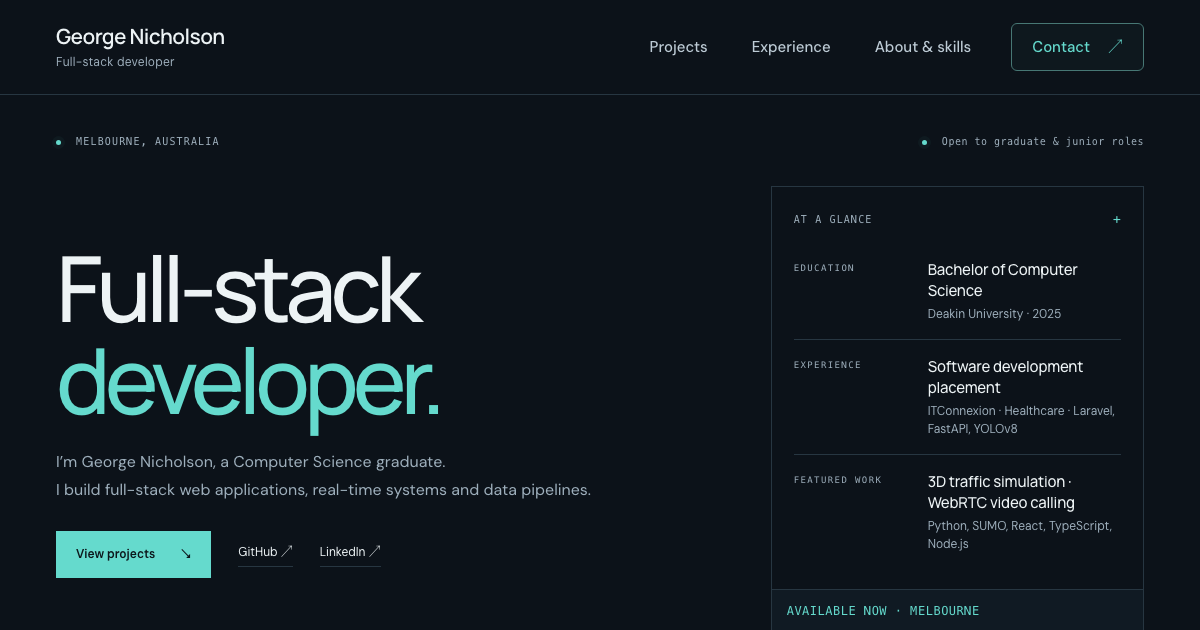
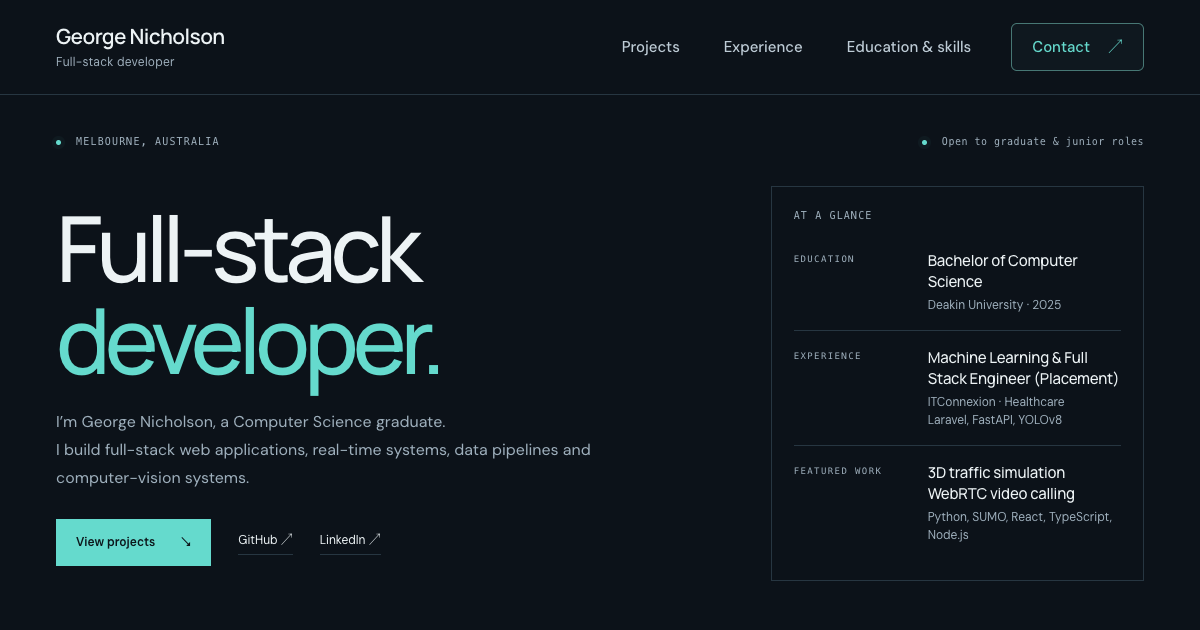
Align placement with LinkedIn and tighten the page
Use the Machine Learning & Full Stack Engineer (Placement) title and
describe the real-time detection, scale calibration and API work.
Add PyTorch and scikit-learn, High Distinctions and the embedded systems
coursework link; update link descriptions; remove repeated labels and
lines; refresh the link preview image.

diff --git a/index.html b/index.html
@@ -1,14 +1,14 @@
 <!doctype html>
-<html lang="en"><head><meta charset="utf-8"><meta name="viewport" content="width=device-width,initial-scale=1"><meta name="color-scheme" content="dark light"><meta name="theme-color" content="#0c1219"><meta name="description" content="George Nicholson — Melbourne-based Computer Science graduate. Real-time web applications, geospatial simulation and healthcare software."><title>George Nicholson — Full-stack Developer</title><link rel="icon" href="assets/favicon.svg" type="image/svg+xml"><meta property="og:type" content="website"><meta property="og:url" content="https://georgenich.github.io/"><meta property="og:title" content="George Nicholson — Full-stack Developer"><meta property="og:description" content="Melbourne-based Computer Science graduate building full-stack web applications, real-time systems and data pipelines."><meta property="og:image" content="https://georgenich.github.io/assets/og-image.png"><meta property="og:image:width" content="1200"><meta property="og:image:height" content="630"><meta property="og:image:alt" content="George Nicholson, full-stack developer portfolio"><meta name="twitter:card" content="summary_large_image"><link rel="stylesheet" href="style.css"></head>
+<html lang="en"><head><meta charset="utf-8"><meta name="viewport" content="width=device-width,initial-scale=1"><meta name="color-scheme" content="dark light"><meta name="theme-color" content="#0c1219"><meta name="description" content="George Nicholson — Melbourne-based full-stack developer and Computer Science graduate building web applications, real-time systems, data pipelines and computer-vision systems."><title>George Nicholson — Full-stack Developer</title><link rel="icon" href="assets/favicon.svg" type="image/svg+xml"><meta property="og:type" content="website"><meta property="og:url" content="https://georgenich.github.io/"><meta property="og:title" content="George Nicholson — Full-stack Developer"><meta property="og:description" content="Melbourne-based full-stack developer and Computer Science graduate building web applications, real-time systems, data pipelines and computer-vision systems."><meta property="og:image" content="https://georgenich.github.io/assets/og-image.png"><meta property="og:image:width" content="1200"><meta property="og:image:height" content="630"><meta property="og:image:alt" content="George Nicholson, full-stack developer portfolio"><meta name="twitter:card" content="summary_large_image"><link rel="stylesheet" href="style.css"></head>
 <body><a href="#main" class="skip">Skip to content</a>
 <header><div class="nav shell"><a href="#" class="wordmark" aria-label="George Nicholson home"><span class="nav-name">George Nicholson</span><span class="nav-role">Full-stack developer</span></a><button class="menu-toggle" aria-expanded="false" aria-controls="main-nav" hidden>Menu <span aria-hidden="true">+</span></button><nav id="main-nav" aria-label="Main navigation"><a href="#work">Projects</a><a href="#experience">Experience</a><a href="#background">Education & skills</a><a href="#contact" class="nav-contact">Contact <span aria-hidden="true">↗</span></a></nav></div><div class="scroll-progress" aria-hidden="true"></div></header>
 <main id="main">
-<section class="intro shell"><div class="intro-top"><p class="label"><span class="signal"></span> MELBOURNE, AUSTRALIA</p><a class="available" href="#contact"><span class="signal"></span> Open to graduate & junior roles</a></div><div class="intro-grid"><div><h1>Full-stack<br><span>developer.</span></h1><p class="intro-description">I’m George Nicholson, a Computer Science graduate.<br class="desktop-break"> I build full-stack web applications, real-time systems and data pipelines.</p><div class="intro-links"><a class="primary" href="#work">View projects <span>↘</span></a><a href="https://github.com/GeorgeNich" target="_blank" rel="noreferrer" class="quiet-link">GitHub ↗</a><a href="https://www.linkedin.com/in/georgenicholson1998/" target="_blank" rel="noreferrer" class="quiet-link">LinkedIn ↗</a></div></div><div class="systems"><div class="system-top"><span class="label">AT A GLANCE</span><span class="cross" aria-hidden="true">+</span></div><dl class="fact-list"><div><dt>EDUCATION</dt><dd>Bachelor of Computer Science<small>Deakin University · 2025</small></dd></div><div><dt>EXPERIENCE</dt><dd>Software development placement<small>ITConnexion · Healthcare<br>Laravel, FastAPI, YOLOv8</small></dd></div><div><dt>FEATURED WORK</dt><dd>3D traffic simulation<br>WebRTC video calling<small>Python, SUMO, React, TypeScript, Node.js</small></dd></div></dl><div class="system-bottom"><span>AVAILABLE NOW · MELBOURNE</span></div></div></div></section>
-<section class="selected shell" id="work"><div class="section-bar"><span class="label">01 / PROJECTS</span><span class="label faint">INDEPENDENT SOFTWARE PROJECTS</span></div>
-<article class="melbourne project" id="melbourne" aria-labelledby="melbourne-title"><h2 id="melbourne-title" class="sr-only">Melbourne Traffic Simulator</h2><div class="project-visual"><div class="visual-panel" id="melbourne-preview" role="tabpanel" aria-labelledby="melbourne-tab-preview"><video id="traffic-replay" controls muted loop playsinline preload="none" poster="assets/melbourne-poster.jpg" aria-label="Animated preview of simulated Melbourne traffic"><source src="assets/melbourne.mp4" type="video/mp4">Your browser does not support video. The poster shows the Melbourne traffic simulation.</video><div class="image-shade"></div><div class="image-title"><div class="image-heading" aria-hidden="true">Melbourne<br>Traffic Simulator<span>.</span></div></div><div class="image-note label"><span class="signal"></span> SIMULATED TRAFFIC REPLAY</div></div><div class="visual-panel architecture-panel" id="melbourne-architecture" role="tabpanel" aria-labelledby="melbourne-tab-architecture" hidden><div class="label">FROM CITY DATA TO BROWSER REPLAY</div><ol class="pipeline"><li><span>SOURCE</span><strong>Open geography</strong><p>Roads, buildings and elevation.</p></li><li><span>PROCESS</span><strong>Python pipeline</strong><p>Prepare roads and buildings, record their sources and check the results.</p></li><li><span>SIMULATE</span><strong>SUMO</strong><p>Simulate traffic and save vehicle paths and road speeds.</p></li><li><span>EXPLORE</span><strong>Browser replay</strong><p>React, TypeScript, deck.gl and MapLibre.</p></li></ol><p>The browser replays precomputed simulation output.</p></div><div class="visual-toolbar"><div class="tabs" role="tablist" aria-label="Melbourne project views"><button id="melbourne-tab-preview" role="tab" aria-selected="true" aria-controls="melbourne-preview" data-panel="melbourne-preview">Replay</button><button id="melbourne-tab-architecture" role="tab" aria-selected="false" aria-controls="melbourne-architecture" tabindex="-1" data-panel="melbourne-architecture">Architecture</button></div><button class="replay-control" id="replay-control" aria-controls="traffic-replay" hidden>Play replay <span aria-hidden="true">▷</span></button><a href="https://github.com/GeorgeNich/Melbourne-traffic-simulator" target="_blank" rel="noreferrer">Explore repository <span>↗</span></a></div></div><div class="project-description"><div><span class="label teal">CITY DATA & TRAFFIC SIMULATION</span><h3>3D traffic simulation<br>of central Melbourne.</h3><div class="tags"><span>Python</span><span>SUMO</span><span>React</span><span>TypeScript</span><span>deck.gl</span><span>MapLibre</span></div></div><div><p>I built the full pipeline: Python processing of OpenStreetMap and City of Melbourne data, a SUMO traffic simulation, and a WebGL viewer in React, TypeScript, deck.gl and MapLibre.</p><p>The simulation was also calibrated against real morning-peak traffic counts from 45 signalised intersections.</p><p class="muted">3D bridges and tunnels, vehicle following, a seekable timeline and road-speed overlays.</p></div></div><div class="demo-summary"><div><span class="label">EXPLORE</span><strong>Central Melbourne</strong><p>CBD, Southbank and Docklands.</p></div><div><span class="label">REPLAY</span><strong>15 minutes of traffic</strong><p>Seekable, with 1–30× playback.</p></div><div><span class="label">RUN LOCALLY</span><strong>Prepared data included</strong><p>Runs in the browser; no Python or SUMO required.</p></div></div><div class="engineering"><div><h4>Data provenance</h4><p>Every road and building height is tagged as measured, sourced or estimated.</p></div><div><h4>Rendering</h4><p>MapLibre and deck.gl share one WebGL context and depth buffer, so buildings correctly occlude traffic. Playback updates vehicle layers without re-rendering React each frame.</p></div><div><h4>Verification</h4><p>Contract tests keep data consistent across the pipeline, simulation and viewer; geometry diagnostics and Playwright tests cover vehicle paths and playback. 99.7% of recorded vehicle positions fall within the carriageway.</p></div></div></article>
-<article class="clearlink project" id="clearlink"><div class="clearlink-heading"><div><span class="label teal">BROWSER VIDEO CALLING</span><h2>Clearlink<span>.</span></h2><p>Account-free video calls that start with a link.</p></div></div><div class="clearlink-grid"><div class="clearlink-media"><div class="visual-panel call-panel" id="clearlink-preview" role="tabpanel" aria-labelledby="clearlink-tab-preview"><img src="assets/clearlink.png" alt="A three-person Clearlink video call with the chat panel open" loading="lazy" width="1600" height="1000"></div><div class="visual-panel architecture-panel" id="clearlink-architecture" role="tabpanel" aria-labelledby="clearlink-tab-architecture" hidden><div class="label">HOW THE CALL CONNECTS</div><div class="peer-map"><div class="peer-pair"><span>Browser A</span><div><strong>⇄</strong><small>DIRECT WEBRTC MEDIA</small></div><span>Browser B</span></div><div class="signalling-path" aria-hidden="true">↓ <span>CONNECTION SETUP</span> ↓</div><div class="signalling-node"><strong>Node.js signalling</strong><span>Who is in the room · connection setup · chat</span></div></div><p>Each participant sends audio and video directly to the others. The server manages the room and passes connection details and chat messages.</p></div><div class="visual-toolbar"><div class="tabs" role="tablist" aria-label="Clearlink project views"><button role="tab" id="clearlink-tab-preview" aria-selected="true" aria-controls="clearlink-preview" data-panel="clearlink-preview">Application</button><button role="tab" id="clearlink-tab-architecture" aria-selected="false" aria-controls="clearlink-architecture" data-panel="clearlink-architecture" tabindex="-1">Architecture</button></div><a href="https://github.com/GeorgeNich/clearlink" target="_blank" rel="noreferrer">Explore repository <span>↗</span></a></div></div><div class="clearlink-copy"><h3>Peer-to-peer group calls<br>without a calling SDK.</h3><p>I built the React/TypeScript client and a zero-dependency Node.js signalling server. Calls support up to five people, screen sharing and chat, with audio and video sent directly between browsers over WebRTC.</p><ul class="feature-list"><li><div><h4>Collision-free negotiation</h4><p>Deterministic offer ownership and per-peer queues avoid conflicting offers when people join at once.</p></div></li><li><div><h4>Device lifecycle</h4><p>Generation tokens stop streams returned by outdated camera and microphone requests, so capture doesn’t outlive the screen that requested it.</p></div></li><li><div><h4>Connection recovery</h4><p>Failed connections can be retried with an ICE restart, keeping room membership and device settings.</p></div></li></ul><div class="tags"><span>TypeScript</span><span>React</span><span>WebRTC</span><span>Node.js</span><span>Playwright</span></div><p class="scope">Covered by Node tests and a five-person Playwright call test; also tested across networks, including mobile data.</p></div></div></article>
+<section class="intro shell"><div class="intro-top"><p class="label"><span class="signal"></span> MELBOURNE, AUSTRALIA</p><a class="available" href="#contact"><span class="signal"></span> Open to graduate & junior roles</a></div><div class="intro-grid"><div><h1>Full-stack<br><span>developer.</span></h1><p class="intro-description">I’m George Nicholson, a Computer Science graduate.<br class="desktop-break"> I build full-stack web applications, real-time systems, data pipelines and computer-vision systems.</p><div class="intro-links"><a class="primary" href="#work">View projects <span>↘</span></a><a href="https://github.com/GeorgeNich" target="_blank" rel="noreferrer" class="quiet-link">GitHub ↗</a><a href="https://www.linkedin.com/in/georgenicholson1998/" target="_blank" rel="noreferrer" class="quiet-link">LinkedIn ↗</a></div></div><div class="systems"><div class="system-top"><span class="label">AT A GLANCE</span></div><dl class="fact-list"><div><dt>EDUCATION</dt><dd>Bachelor of Computer Science<small>Deakin University · 2025</small></dd></div><div><dt>EXPERIENCE</dt><dd>Machine Learning &amp; Full Stack Engineer (Placement)<small>ITConnexion · Healthcare<br>Laravel, FastAPI, YOLOv8</small></dd></div><div><dt>FEATURED WORK</dt><dd>3D traffic simulation<br>WebRTC video calling<small>Python, SUMO, React, TypeScript, Node.js</small></dd></div></dl></div></div></section>
+<section class="selected shell" id="work"><div class="section-bar"><span class="label">01 / PROJECTS</span></div>
+<article class="melbourne project" id="melbourne" aria-labelledby="melbourne-title"><h2 id="melbourne-title" class="sr-only">Melbourne Traffic Simulator</h2><div class="project-visual"><div class="visual-panel" id="melbourne-preview" role="tabpanel" aria-labelledby="melbourne-tab-preview"><video id="traffic-replay" controls muted loop playsinline preload="none" poster="assets/melbourne-poster.jpg" aria-label="Animated preview of simulated Melbourne traffic"><source src="assets/melbourne.mp4" type="video/mp4">Your browser does not support video. The poster shows the Melbourne traffic simulation.</video><div class="image-shade"></div><div class="image-title"><div class="image-heading" aria-hidden="true">Melbourne<br>Traffic Simulator<span>.</span></div></div><div class="image-note label"><span class="signal"></span> SIMULATED TRAFFIC REPLAY</div></div><div class="visual-panel architecture-panel" id="melbourne-architecture" role="tabpanel" aria-labelledby="melbourne-tab-architecture" hidden><div class="label">FROM CITY DATA TO BROWSER REPLAY</div><ol class="pipeline"><li><span>SOURCE</span><strong>Open geography</strong><p>Roads, buildings and elevation.</p></li><li><span>PROCESS</span><strong>Python pipeline</strong><p>Prepare roads and buildings, record their sources and check the results.</p></li><li><span>SIMULATE</span><strong>SUMO</strong><p>Simulate traffic and save vehicle paths and road speeds.</p></li><li><span>EXPLORE</span><strong>Browser replay</strong><p>React, TypeScript, deck.gl and MapLibre.</p></li></ol><p>The browser replays precomputed simulation output.</p></div><div class="visual-toolbar"><div class="tabs" role="tablist" aria-label="Melbourne project views"><button id="melbourne-tab-preview" role="tab" aria-selected="true" aria-controls="melbourne-preview" data-panel="melbourne-preview">Replay</button><button id="melbourne-tab-architecture" role="tab" aria-selected="false" aria-controls="melbourne-architecture" tabindex="-1" data-panel="melbourne-architecture">Architecture</button></div><button class="replay-control" id="replay-control" aria-controls="traffic-replay" hidden>Play replay <span aria-hidden="true">▷</span></button><a href="https://github.com/GeorgeNich/Melbourne-traffic-simulator" target="_blank" rel="noreferrer">Explore repository <span>↗</span></a></div></div><div class="project-description"><div><span class="label teal">CITY DATA & SIMULATION</span><h3>3D traffic simulation<br>of central Melbourne.</h3><div class="tags"><span>Python</span><span>SUMO</span><span>React</span><span>TypeScript</span><span>deck.gl</span><span>MapLibre</span></div></div><div><p>I built the full pipeline, from processing OpenStreetMap and City of Melbourne data to running the traffic simulation and replaying it in the browser.</p><p>The simulation was also calibrated against real morning-peak traffic counts from 45 signalised intersections.</p><p class="muted">3D bridges and tunnels, vehicle following, a seekable timeline and road-speed overlays.</p></div></div><div class="demo-summary"><div><span class="label">EXPLORE</span><strong>CBD, Southbank &amp; Docklands</strong><p>Real city geometry and road network.</p></div><div><span class="label">REPLAY</span><strong>15 minutes of traffic</strong><p>Seekable, with 1–30× playback.</p></div><div><span class="label">RUN LOCALLY</span><strong>Prepared data included</strong><p>Runs in the browser; no Python or SUMO required.</p></div></div><div class="engineering"><div><h4>Data provenance</h4><p>Every road and building height is tagged as measured, sourced or estimated.</p></div><div><h4>Rendering</h4><p>MapLibre and deck.gl share one WebGL context and depth buffer, so buildings correctly occlude traffic. Playback updates vehicle layers without re-rendering React each frame.</p></div><div><h4>Verification</h4><p>Contract tests keep data consistent across the pipeline, simulation and viewer; geometry diagnostics and Playwright tests cover vehicle paths and playback. 99.7% of recorded vehicle positions fall within the carriageway.</p></div></div></article>
+<article class="clearlink project" id="clearlink"><div class="clearlink-heading"><div><span class="label teal">BROWSER VIDEO CALLING</span><h2>Clearlink<span>.</span></h2><p>Account-free video calls that start with a link.</p></div></div><div class="clearlink-grid"><div class="clearlink-media"><div class="visual-panel call-panel" id="clearlink-preview" role="tabpanel" aria-labelledby="clearlink-tab-preview"><img src="assets/clearlink.png" alt="A three-person Clearlink video call with the chat panel open" loading="lazy" width="1600" height="1000"></div><div class="visual-panel architecture-panel" id="clearlink-architecture" role="tabpanel" aria-labelledby="clearlink-tab-architecture" hidden><div class="label">HOW THE CALL CONNECTS</div><div class="peer-map"><div class="peer-pair"><span>Browser A</span><div><strong>⇄</strong><small>DIRECT WEBRTC MEDIA</small></div><span>Browser B</span></div><div class="signalling-path" aria-hidden="true">↓ <span>CONNECTION SETUP</span> ↓</div><div class="signalling-node"><strong>Node.js signalling</strong><span>Who is in the room · connection setup · chat</span></div></div><p>Each participant sends audio and video directly to the others. The server manages the room and passes connection details and chat messages.</p></div><div class="visual-toolbar"><div class="tabs" role="tablist" aria-label="Clearlink project views"><button role="tab" id="clearlink-tab-preview" aria-selected="true" aria-controls="clearlink-preview" data-panel="clearlink-preview">Application</button><button role="tab" id="clearlink-tab-architecture" aria-selected="false" aria-controls="clearlink-architecture" data-panel="clearlink-architecture" tabindex="-1">Architecture</button></div><a href="https://github.com/GeorgeNich/clearlink" target="_blank" rel="noreferrer">Explore repository <span>↗</span></a></div></div><div class="clearlink-copy"><h3>Peer-to-peer group calls<br>without a calling SDK.</h3><p>I built the React/TypeScript client and a zero-dependency Node.js signalling server. Calls support up to five people, screen sharing and chat over WebRTC.</p><ul class="feature-list"><li><div><h4>Collision-free negotiation</h4><p>Deterministic offer ownership and per-peer queues avoid conflicting offers when people join at once.</p></div></li><li><div><h4>Device lifecycle</h4><p>Generation tokens stop streams returned by outdated camera and microphone requests, so capture doesn’t outlive the screen that requested it.</p></div></li><li><div><h4>Connection recovery</h4><p>Failed connections can be retried with an ICE restart, keeping room membership and device settings.</p></div></li></ul><div class="tags"><span>TypeScript</span><span>React</span><span>WebRTC</span><span>Node.js</span><span>Playwright</span></div><p class="scope">Covered by Node tests and a five-person Playwright call test; also tested across networks, including mobile data.</p></div></div></article>
 </section>
-<section class="experience" id="experience"><div class="shell"><div class="section-bar"><span class="label">02 / EXPERIENCE</span><span class="label">PLACEMENT & INDEPENDENT DEVELOPMENT</span></div><div class="experience-grid"><div><span class="label">HEALTHCARE SOFTWARE</span><h2>ITConnexion<span>.</span></h2><p class="placement-role">Software development placement</p><p class="placement-date">October 2024 — January 2025 · Melbourne</p><p>Took over an undocumented Laravel/PHP healthcare application and delivered a working wound-tracking product: AI-assisted measurement from photos, wound history, and doctor and patient/admin dashboards.</p><p class="placement-context">Delivered the project independently in a largely remote team: a remote mentor, a lead developer in the Melbourne office and offshore developers across Asian time zones, with daily Scrum stand-ups.</p><div class="experience-tech">Laravel / PHP / Python / FastAPI<br>YOLOv8 / OpenCV / MySQL / WebSockets</div></div><div class="placement-details"><div><section><h3>System analysis</h3><p>Reverse-engineered the codebase and mapped its classes, data and workflows in high- and low-level UML.</p></section></div><div><section><h3>Computer-vision integration</h3><p>Integrated a Python FastAPI service using YOLOv8 segmentation to outline the wound and a coin, card or ruler reference, then calculate width, height and area from user-adjustable outlines.</p></section></div><div><section><h3>Clinical workflow</h3><p>Linked measurements to patient records and wound history, with home photo updates and doctor review of progress.</p></section></div><div class="placement-practice"><span>↳</span><p>Tested the image-analysis API in Postman against expected responses, and traced and fixed integration issues between FastAPI and Laravel.</p></div></div></div><div class="independent-experience"><div><span class="label">INDEPENDENT PROJECT</span><h3>Full-stack developer · GrapeVyne</h3><p>January 2020 — Present</p><p>Node.js / Express / MySQL / AWS · Laravel / PostgreSQL</p></div><p>Designed and built a wine marketplace for wineries and customers: winery and admin portals, catalogues and order workflows on a Node.js/Express backend. Rebuilt the backend in Laravel and PostgreSQL, now in demo testing with payments, stock reservation and multi-winery orders.</p></div></div></section>
-<section class="background shell" id="background"><div class="section-bar"><span class="label">03 / EDUCATION & SKILLS</span></div><div class="background-grid"><div><h2>Education &amp;<br>skills<span>.</span></h2><div class="education"><div><span class="label teal">EDUCATION</span><h3>Bachelor of Computer Science</h3><p>Deakin University · completed September 2025</p><p>Diploma of Computing · Deakin College</p></div></div><div class="crown-experience"><span class="label teal">PRIOR EXPERIENCE</span><h3>Table Games Croupier · Crown Melbourne</h3><p>April 2018 — April 2026 · Eight years</p><p>Applied anti-money-laundering (AML) and gaming controls to high-value transactions, reconciled cash and chip transactions each shift, and de-escalated customer disputes as an appointed Player Welfare Officer.</p></div></div><div class="toolkit"><div><span class="label teal">LANGUAGES</span><p>Python · TypeScript · JavaScript · C# · C++ · PHP</p></div><div><span class="label teal">APPLICATIONS & APIS</span><p>React · Node.js · Express · Laravel · FastAPI<br>WebRTC · WebSockets · MySQL · PostgreSQL</p></div><div><span class="label teal">DATA, SIMULATION & VISION</span><p>pandas · NumPy · OpenCV · YOLOv8<br>SUMO · deck.gl · MapLibre</p></div><div><span class="label teal">INFRASTRUCTURE & TESTING</span><p>Git · Docker · AWS EC2 · Linux<br>Playwright · pytest</p></div><div><span class="label teal">PARALLEL COMPUTING</span><p>PThreads · OpenMP · MPI · OpenCL</p></div></div></div><div class="foundations"><div><span class="label">UNIVERSITY WORK</span><p>Selected coursework<br>repositories.</p></div><div class="foundation-links"><a href="https://github.com/GeorgeNich/SIT315-Concurrent-Distributed-Programming" target="_blank" rel="noreferrer"><span>SYSTEMS</span><strong>Concurrent & distributed programming</strong><i>↗</i></a><a href="https://github.com/GeorgeNich/SIT320-Advanced-Algorithms" target="_blank" rel="noreferrer"><span>ALGORITHMS</span><strong>Graphs, balanced trees & dynamic programming</strong><i>↗</i></a><a href="https://github.com/GeorgeNich/SIT307-Data-Mining-and-Machine-Learning" target="_blank" rel="noreferrer"><span>MACHINE LEARNING</span><strong>Data preparation, models & validation</strong><i>↗</i></a><a href="https://github.com/GeorgeNich?tab=repositories" target="_blank" rel="noreferrer"><span>GITHUB</span><strong>All repositories</strong><i>↗</i></a></div></div></section>
-<section class="contact shell" id="contact"><div class="contact-meta"><span class="label"><span class="signal"></span> OPEN TO GRADUATE & JUNIOR SOFTWARE ROLES</span><span class="label">04 / CONTACT</span></div><h2><a class="contact-title" href="mailto:george.nicholson1998@gmail.com">Get in<br>touch<span>↗</span></a></h2><div class="contact-bottom"><p>Available now for full-stack, backend and applied <br>machine learning roles in Melbourne.</p><div><a class="primary contact-email" href="mailto:george.nicholson1998@gmail.com">Email me <span aria-hidden="true">↗</span></a><p class="contact-address"><span>george.nicholson1998@gmail.com</span><button id="copy-email" aria-label="Copy email address">Copy <span>⧉</span></button></p><span id="copy-status" role="status" aria-live="polite"></span></div></div></section>
+<section class="experience" id="experience"><div class="shell"><div class="section-bar"><span class="label">02 / EXPERIENCE</span></div><div class="experience-grid"><div><span class="label">HEALTHCARE SOFTWARE</span><h2>ITConnexion<span>.</span></h2><p class="placement-role">Machine Learning &amp; Full Stack Engineer (Placement)</p><p class="placement-date">October 2024 — January 2025 · Melbourne</p><p>Took over an undocumented Laravel/PHP healthcare application and delivered a working wound-tracking product for photo-based wound assessment and progress tracking, with doctor and patient/admin dashboards.</p><p class="placement-context">Worked largely autonomously with a remote mentor, a Melbourne-based lead developer and offshore developers across Asia, through daily stand-ups.</p><div class="experience-tech">Laravel / PHP / Python / FastAPI<br>YOLOv8 / OpenCV / MySQL / WebSockets</div></div><div class="placement-details"><div><section><h3>Real-time wound detection</h3><p>A YOLOv8 model outlines and measures each new photo within seconds, with results updating live over WebSockets.</p></section></div><div><section><h3>Scale calibration</h3><p>Delivered automated calibration from a detected ruler, alongside existing coin and card references, for accurate real-world measurements.</p></section></div><div><section><h3>Reliable image-analysis API</h3><p>Hardened the Python service with clear error handling, safe failure recovery and request logging between FastAPI and Laravel.</p></section></div><div class="placement-practice"><span>↳</span><p>Mapped the inherited codebase in UML before extending it, and linked measurements to patient records so doctors could track healing over time.</p></div></div></div><div class="independent-experience"><div><span class="label">INDEPENDENT PROJECT</span><h3>Full-stack developer · GrapeVyne</h3><p>January 2020 — Present</p><p>Node.js / Express / MySQL / AWS · Laravel / PostgreSQL</p></div><p>Designed and built a wine marketplace for wineries and customers: winery and admin portals, catalogues and order workflows on a Node.js/Express backend. Rebuilt the backend in Laravel and PostgreSQL, now in demo testing with payments, stock reservation and multi-winery orders.</p></div></div></section>
+<section class="background shell" id="background"><div class="section-bar"><span class="label">03 / EDUCATION & SKILLS</span></div><div class="background-grid"><div><h2>Education &amp;<br>skills<span>.</span></h2><div class="education"><div><span class="label teal">EDUCATION</span><h3>Bachelor of Computer Science</h3><p>Deakin University · completed September 2025</p><p>High Distinctions in IT Placements, Professional Practice and IT Innovation; IoT capstone (High Distinction)</p><p>Diploma of Computing · Deakin College</p></div></div><div class="crown-experience"><span class="label teal">PRIOR EXPERIENCE</span><h3>Table Games Croupier · Crown Melbourne</h3><p>April 2018 — April 2026 · Eight years</p><p>Applied anti-money-laundering (AML) and gaming controls to high-value transactions, reconciled cash and chip transactions each shift, and de-escalated customer disputes as an appointed Player Welfare Officer.</p></div></div><div class="toolkit"><div><span class="label teal">LANGUAGES</span><p>Python · TypeScript · JavaScript · C# · C++ · PHP</p></div><div><span class="label teal">APPLICATIONS, APIS & DATABASES</span><p>React · Node.js · Express · Laravel · FastAPI<br>WebRTC · WebSockets · MySQL · PostgreSQL</p></div><div><span class="label teal">MACHINE LEARNING, DATA & SIMULATION</span><p>PyTorch · scikit-learn · YOLOv8 · OpenCV<br>pandas · NumPy · SUMO · deck.gl · MapLibre</p></div><div><span class="label teal">INFRASTRUCTURE & TESTING</span><p>Git · Docker · AWS EC2 · Linux<br>Playwright · pytest</p></div><div><span class="label teal">PARALLEL COMPUTING</span><p>PThreads · OpenMP · MPI · OpenCL</p></div></div></div><div class="foundations"><div><span class="label">UNIVERSITY WORK</span><p>Selected coursework<br>repositories.</p></div><div class="foundation-links"><a href="https://github.com/GeorgeNich/SIT315-Concurrent-Distributed-Programming" target="_blank" rel="noreferrer"><span>SYSTEMS</span><strong>Concurrent & distributed programming</strong><i>↗</i></a><a href="https://github.com/GeorgeNich/SIT320-Advanced-Algorithms" target="_blank" rel="noreferrer"><span>ALGORITHMS</span><strong>Graphs, balanced trees & dynamic programming</strong><i>↗</i></a><a href="https://github.com/GeorgeNich/SIT307-Data-Mining-and-Machine-Learning" target="_blank" rel="noreferrer"><span>MACHINE LEARNING</span><strong>Data preparation, models & validation</strong><i>↗</i></a><a href="https://github.com/GeorgeNich/SIT210-Embedded-Systems-Development" target="_blank" rel="noreferrer"><span>EMBEDDED SYSTEMS</span><strong>IoT, sensors, Raspberry Pi & cloud communication</strong><i>↗</i></a><a href="https://github.com/GeorgeNich?tab=repositories" target="_blank" rel="noreferrer"><span>GITHUB</span><strong>All repositories</strong><i>↗</i></a></div></div></section>
+<section class="contact shell" id="contact"><div class="contact-meta"><span class="label">04 / CONTACT</span></div><h2><a class="contact-title" href="mailto:george.nicholson1998@gmail.com">Get in<br>touch<span>↗</span></a></h2><div class="contact-bottom"><p>Available now for full-stack, backend and applied <br>machine learning roles in Melbourne.</p><div><a class="primary contact-email" href="mailto:george.nicholson1998@gmail.com">Email me <span aria-hidden="true">↗</span></a><p class="contact-address"><span>george.nicholson1998@gmail.com</span><button id="copy-email" aria-label="Copy email address">Copy <span>⧉</span></button></p><span id="copy-status" role="status" aria-live="polite"></span></div></div></section>
 </main><footer class="shell"><a href="#" class="footer-name">George Nicholson</a><span>© <span id="year">2026</span> · MELBOURNE, AUSTRALIA</span><div><a href="https://github.com/GeorgeNich" target="_blank" rel="noreferrer">GitHub ↗</a><a href="https://www.linkedin.com/in/georgenicholson1998/" target="_blank" rel="noreferrer">LinkedIn ↗</a><a href="#">Back to top ↑</a></div></footer><script src="script.js"></script></body></html>

diff --git a/style.css b/style.css
@@ -46,3 +46,5 @@
 /* Polish: contact button, coursework on the shared grid, testing note in body font */
 .contact-bottom{align-items:center}.contact-bottom .contact-email{font-size:14px;padding:14px 22px}.contact-address{display:flex;align-items:center;justify-content:flex-end;gap:14px;margin-top:12px;font-size:13px;color:var(--muted)}.contact-address>span{user-select:all}.contact-bottom .contact-address button{display:inline-flex;padding:0;min-height:0;margin:0;font:11px var(--mono)}.contact-bottom>div{padding-bottom:0}.contact-bottom [role=status]{min-height:0}.placement-practice p{font:13px/1.8 'DM Sans',sans-serif;color:#425c62}@media(min-width:1051px){.foundations{grid-template-columns:repeat(3,minmax(0,1fr));gap:0}.foundation-links{grid-column:span 2;padding-left:28px}}@media(max-width:760px){.contact-address{justify-content:flex-start}.contact-bottom .contact-email{margin-top:4px}}
 @media(max-width:760px){.contact-meta .label:last-child{max-width:none;white-space:nowrap}}
+/* Hero panel without footer bar */
+.systems .fact-list{padding-bottom:20px}
